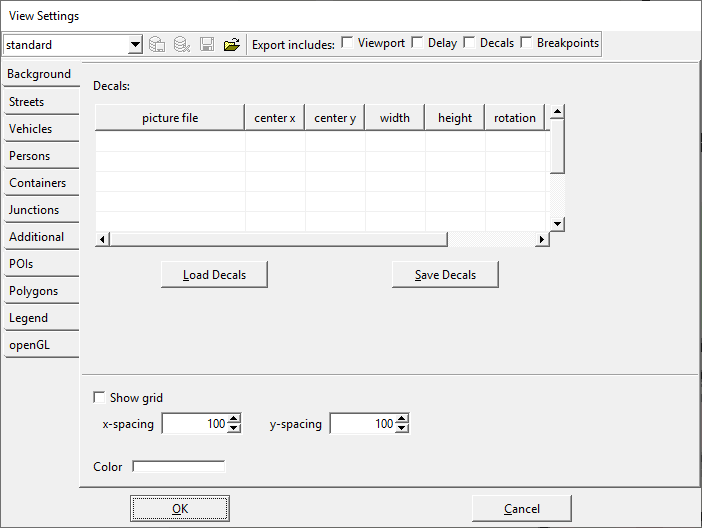
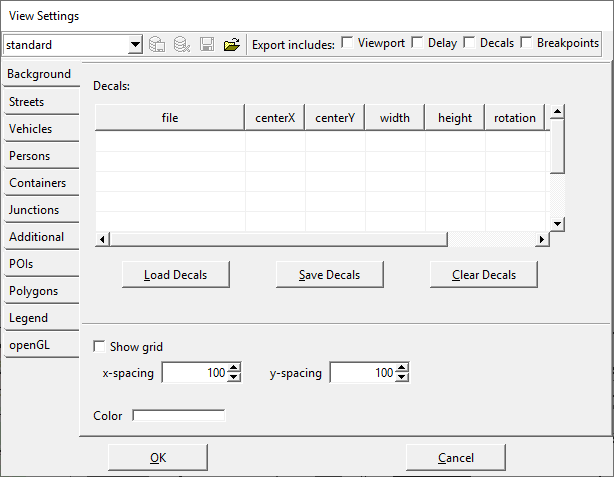
minor renaming

diff --git a/src/utils/gui/windows/GUIDialog_ViewSettings.cpp b/src/utils/gui/windows/GUIDialog_ViewSettings.cpp
@@ -1432,9 +1432,9 @@ GUIDialog_ViewSettings::rebuildDecalsTable() {
     // set table attributes
     const int numRows = MAX2((int)10, (int)myDecals->size() + 1);
     myDecalsTable->setTableSize(numRows, cols);
-    myDecalsTable->setColumnText(0, "picture file");
-    myDecalsTable->setColumnText(1, "center x");
-    myDecalsTable->setColumnText(2, "center y");
+    myDecalsTable->setColumnText(0, "file");
+    myDecalsTable->setColumnText(1, "centerX");
+    myDecalsTable->setColumnText(2, "centerY");
     myDecalsTable->setColumnText(3, "width");
     myDecalsTable->setColumnText(4, "height");
     myDecalsTable->setColumnText(5, "rotation");

diff --git a/docs/web/docs/sumo-gui.md b/docs/web/docs/sumo-gui.md
@@ -625,31 +625,30 @@ also load additional background images ("decals") into
 **sumo-gui**. For this, open the visualisation
 settings using ![Image:colorwheel.gif](images/Colorwheel.gif
 "Image:colorwheel.gif") and - if you are not yet here - choose the
-"Background" panel (figure 1.1). You will see a table with following
-columns: **picture file**, **center x**, **center y**, **width**,
-**height**, and **rotation**.
+"Background" panel (see Figure below). You will see a table with the following
+columns: **file**, **centerX**, **centerY**, **width**,
+**height**, **rotation**, **layer** and **relative**.
 
-![decals_gui.gif](images/Decals_gui.png "decals_gui.png")
+![](images/Decals_gui.png "The decals GUI")
 
-**Fig. 1.1: The decals GUI.**
+**The decals GUI.**
 
 Now, if you click into the first row of the "picture file" column, you
 should be able to enter the complete path of an image file. Confirming
 the path by pressing RETURN should force **sumo-gui**
-to load and display the file below the road network, as shown in figure
-1.2.
+to load and display the file below the road network, as shown in the figure:
 
-![Background_example.png](images/Background_example.png
-"Background_example.png")
+![](images/Background_example.png
+"Background example")
 
-**Fig. 1.2: Example of a background image (decal).**
+**Example of a background image (decal).**
 
-Currently, **sumo-gui** may load .gif, .png and .bmp
+Currently, **sumo-gui** may load .gif, .png, .jpeg and .bmp
 files. If built with gdal-support further formats such as .tif are also
 usable.
 
 Now, you may position/stretch/rotate the image using the columns
-**center x**, **center y**, **width**, **height**, and **rotation**.
+**centerX**, **centerY**, **width**, **height**, and **rotation**.
 
 When setting the column **relative** to *1*, position and size values
 will be taken as screen-relative pixel values instead of
@@ -688,7 +687,7 @@ The following attributes are supported
     When loading an image file with an embedded geo-reference (i.e. [GeoTIFF](https://en.wikipedia.org/wiki/GeoTIFF)) and the simulation network also has a geo-reference, then the image will be positioned automatically.
     
 !!! note
-    Background images for a network can be downloaded with the [tileGet tool](Tools/Misc.md#tilegetpy).
+    Background images for a network can be downloaded with the [tileGet tool](Tools/Misc.md#tilegetpy) or by using the [osmWebWizard](Tools/Import/OSM.md#osmwebwizardpy).
 
 ## Transparency
 
